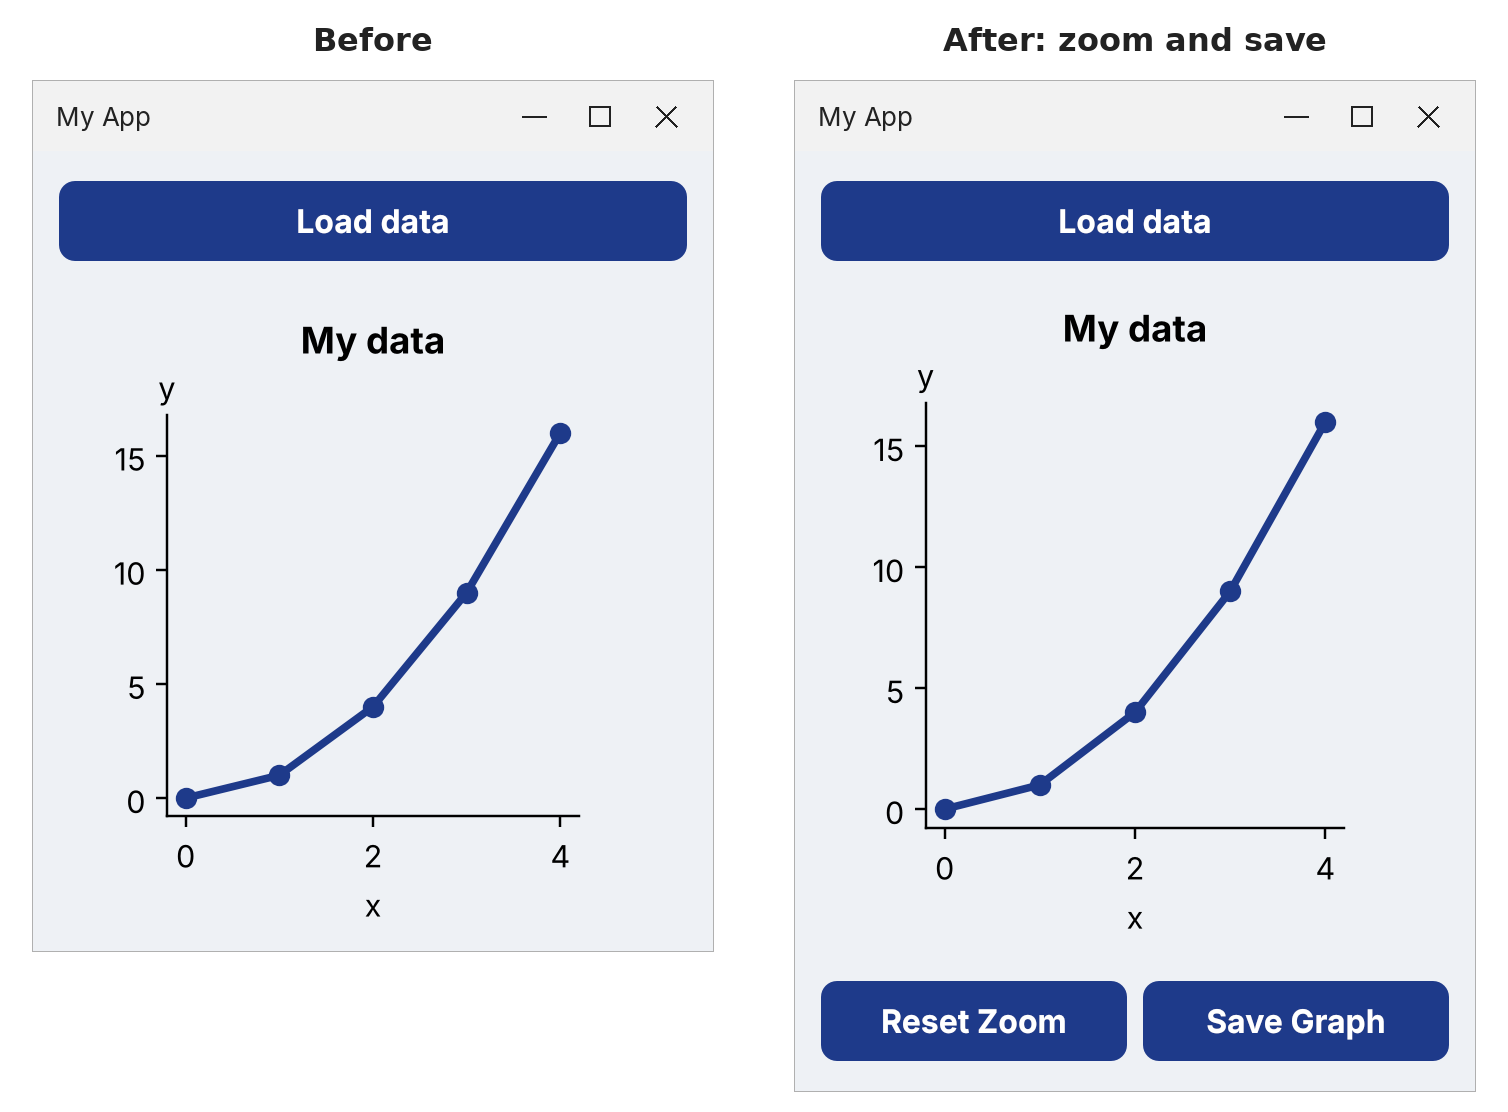
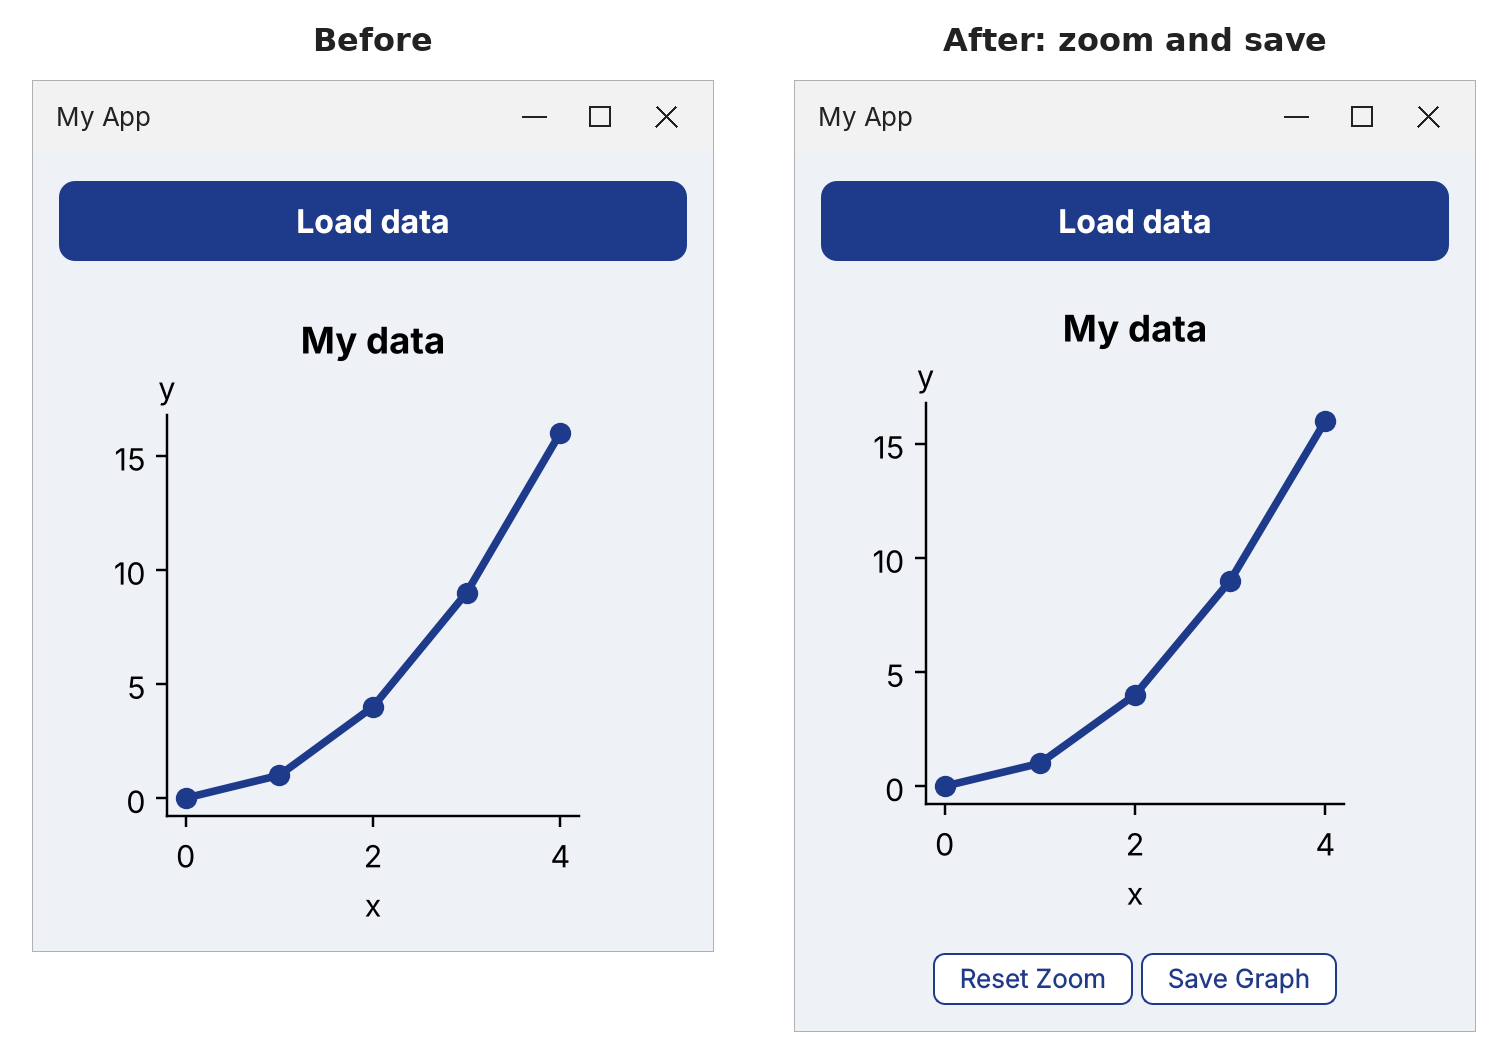
Starter GUI prompts: small, simple Reset Zoom and Save Graph buttons (EN + HE)
Claude-Session: https://claude.ai/code/session_01TSvAdkGXUG1LZxQcRJdy9t

diff --git a/content/he/topics/good_prompts.md b/content/he/topics/good_prompts.md
@@ -231,9 +231,9 @@ def draw_graph(self):
 
 אזור הגרף עדיין לא נראה כל כך טוב, כי הגרף לא מנצל נכון את המקום שמסביבו. בנוסף, אנחנו רוצים להוסיף אפשרות לזום ולשמירת הגרף כתמונה. נכתוב לזה פרומפט המשך.
 
-> Make the graph occupy the entire width of the window while keeping it centered, and go up until it is almost at the "Load Data" button. Let the user zoom in at any time by dragging a rectangle over the graph: use the zoom of matplotlib's toolbar, but don't show the toolbar. Under the graph, add two buttons in a row: "Reset Zoom" named `reset_zoom_button`, which shows the whole graph again, and "Save Graph" named `save_graph_button`, which saves the graph as an image. Use the toolbar's functions for both. Style them to match the rest of the app using `style.qss`.
+> Make the graph occupy the entire width of the window while keeping it centered, and go up until it is almost at the "Load Data" button. Let the user zoom in at any time by dragging a rectangle over the graph: use the zoom of matplotlib's toolbar, but don't show the toolbar. Under the graph, add two buttons in a row: "Reset Zoom" named `reset_zoom_button`, which shows the whole graph again, and "Save Graph" named `save_graph_button`, which saves the graph as an image. Use the toolbar's functions for both. Make these two buttons small and simple: white with dark blue text and a thin border, centered under the graph. Style them using `style.qss`.
 
-(״תגרום לגרף לתפוס את כל רוחב החלון ועדיין להישאר במרכז, ותעלה אותו עד שהוא כמעט מגיע לכפתור ״Load Data״. תאפשר למשתמש לעשות זום בכל רגע על ידי סימון מלבן על הגרף: תשתמש בזום של סרגל הכלים (toolbar) של matplotlib, אבל אל תציג את סרגל הכלים. מתחת לגרף, תוסיף שני כפתורים בשורה: ״Reset Zoom״ בשם `reset_zoom_button`, שמציג שוב את כל הגרף, ו-״Save Graph״ בשם `save_graph_button`, ששומר את הגרף כתמונה. תשתמש בפונקציות של סרגל הכלים בשביל שניהם. תעצב אותם כך שיתאימו לשאר האפליקציה בעזרת `style.qss`.״)
+(״תגרום לגרף לתפוס את כל רוחב החלון ועדיין להישאר במרכז, ותעלה אותו עד שהוא כמעט מגיע לכפתור ״Load Data״. תאפשר למשתמש לעשות זום בכל רגע על ידי סימון מלבן על הגרף: תשתמש בזום של סרגל הכלים (toolbar) של matplotlib, אבל אל תציג את סרגל הכלים. מתחת לגרף, תוסיף שני כפתורים בשורה: ״Reset Zoom״ בשם `reset_zoom_button`, שמציג שוב את כל הגרף, ו-״Save Graph״ בשם `save_graph_button`, ששומר את הגרף כתמונה. תשתמש בפונקציות של סרגל הכלים בשביל שניהם. תעשה את שני הכפתורים האלה קטנים ופשוטים: לבנים עם טקסט כחול כהה ומסגרת דקה, במרכז מתחת לגרף. תעצב אותם בעזרת `style.qss`.״)
 
 ![האפליקציה לפני פרומפט הזום והשמירה, ואחריו](content/images/prompt_zoom_save_before_after.png)
 
@@ -248,9 +248,13 @@ def draw_graph(self):
         self.reset_zoom_button.clicked.connect(self.toolbar.home)
         self.save_graph_button = QPushButton("Save Graph")
         self.save_graph_button.clicked.connect(self.toolbar.save_figure)
+        self.reset_zoom_button.setObjectName("reset_zoom_button")    # a name for style.qss
+        self.save_graph_button.setObjectName("save_graph_button")
         buttons = QHBoxLayout()
+        buttons.addStretch()    # empty space on both sides keeps the buttons small and centered
         buttons.addWidget(self.reset_zoom_button)
         buttons.addWidget(self.save_graph_button)
+        buttons.addStretch()
         layout.addLayout(buttons)    # after layout.addWidget(self.canvas)
         layout.setSpacing(0)         # less space between the widgets
 ```
@@ -272,4 +276,20 @@ def draw_graph(self):
 - **Reset Zoom:** חזרה לגרף כולו.
 - **Save Graph:** פותח חלון שמירה, ושומר את הגרף כקובץ PNG, JPG, PDF או SVG.
 
-הכפתורים החדשים כבר נראים כמו ״Load data״, כי הכללים של `QPushButton` ב-`style.qss` חלים על כל כפתור. לא היה צריך לשנות שם כלום.
+וב-`style.qss` הוא מוסיף כלל לשני הכפתורים הקטנים. `#name` בוחר ווידג'ט לפי השם שניתן לו עם `setObjectName`, כך שהשורות האלה משנות רק את שני הכפתורים האלה ומשאירות את ״Load data״ כמו שהיה:
+
+```css
+#reset_zoom_button, #save_graph_button {
+    background-color: white;
+    color: #1e3a8a;
+    border: 1px solid #1e3a8a;
+    border-radius: 6px;
+    padding: 4px 12px;
+    margin: 4px 2px;
+    font-size: 10pt;
+    font-weight: normal;
+}
+#reset_zoom_button:hover, #save_graph_button:hover {
+    background-color: #dbeafe;
+}
+```

diff --git a/content/topics/good_prompts.md b/content/topics/good_prompts.md
@@ -208,7 +208,7 @@ Now read the code. Some things are very easy to do once you know how. You can no
 
 The graph area still doesn't look that good as it does not occupy the space around it properly. Also we want to add an option for zooming and saving the graph as an image. We'll write a follow-up prompt for that.
 
-> Make the graph occupy the entire width of the window while keeping it centered, and go up until it is almost at the "Load Data" button. Let the user zoom in at any time by dragging a rectangle over the graph: use the zoom of matplotlib's toolbar, but don't show the toolbar. Under the graph, add two buttons in a row: "Reset Zoom" named `reset_zoom_button`, which shows the whole graph again, and "Save Graph" named `save_graph_button`, which saves the graph as an image. Use the toolbar's functions for both. Style them to match the rest of the app using `style.qss`.
+> Make the graph occupy the entire width of the window while keeping it centered, and go up until it is almost at the "Load Data" button. Let the user zoom in at any time by dragging a rectangle over the graph: use the zoom of matplotlib's toolbar, but don't show the toolbar. Under the graph, add two buttons in a row: "Reset Zoom" named `reset_zoom_button`, which shows the whole graph again, and "Save Graph" named `save_graph_button`, which saves the graph as an image. Use the toolbar's functions for both. Make these two buttons small and simple: white with dark blue text and a thin border, centered under the graph. Style them using `style.qss`.
 
 ![The app before the zoom and save prompt, and after it](content/images/prompt_zoom_save_before_after.png)
 
@@ -223,9 +223,13 @@ In `__init__`, the AI creates matplotlib's toolbar but hides it, turns its zoom 
         self.reset_zoom_button.clicked.connect(self.toolbar.home)
         self.save_graph_button = QPushButton("Save Graph")
         self.save_graph_button.clicked.connect(self.toolbar.save_figure)
+        self.reset_zoom_button.setObjectName("reset_zoom_button")    # a name for style.qss
+        self.save_graph_button.setObjectName("save_graph_button")
         buttons = QHBoxLayout()
+        buttons.addStretch()    # empty space on both sides keeps the buttons small and centered
         buttons.addWidget(self.reset_zoom_button)
         buttons.addWidget(self.save_graph_button)
+        buttons.addStretch()
         layout.addLayout(buttons)    # after layout.addWidget(self.canvas)
         layout.setSpacing(0)         # less space between the widgets
 ```
@@ -247,4 +251,20 @@ How to use it:
 - **Reset Zoom:** back to the whole graph.
 - **Save Graph:** opens a save window, and saves the graph as a PNG, JPG, PDF or SVG file.
 
-The new buttons already look like "Load data", because the `QPushButton` rules in `style.qss` apply to every button. Nothing needed to change there.
+And in `style.qss` it adds a rule for the two small buttons. `#name` picks a widget by the name given to it with `setObjectName`, so these lines change only these two buttons and leave "Load data" as it was:
+
+```css
+#reset_zoom_button, #save_graph_button {
+    background-color: white;
+    color: #1e3a8a;
+    border: 1px solid #1e3a8a;
+    border-radius: 6px;
+    padding: 4px 12px;
+    margin: 4px 2px;
+    font-size: 10pt;
+    font-weight: normal;
+}
+#reset_zoom_button:hover, #save_graph_button:hover {
+    background-color: #dbeafe;
+}
+```
